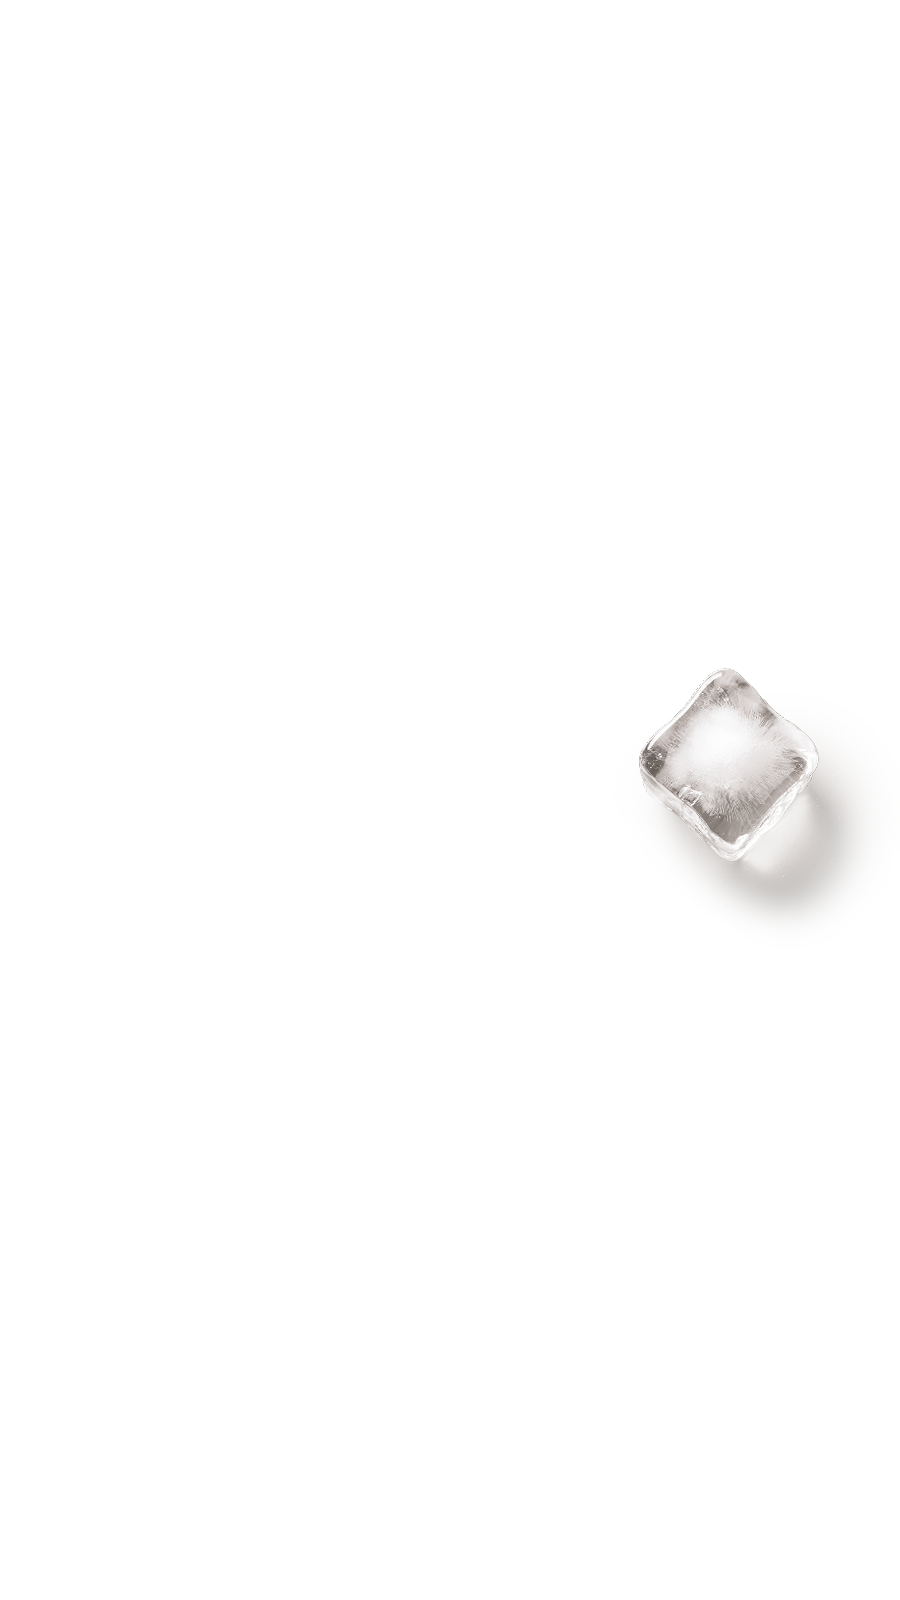
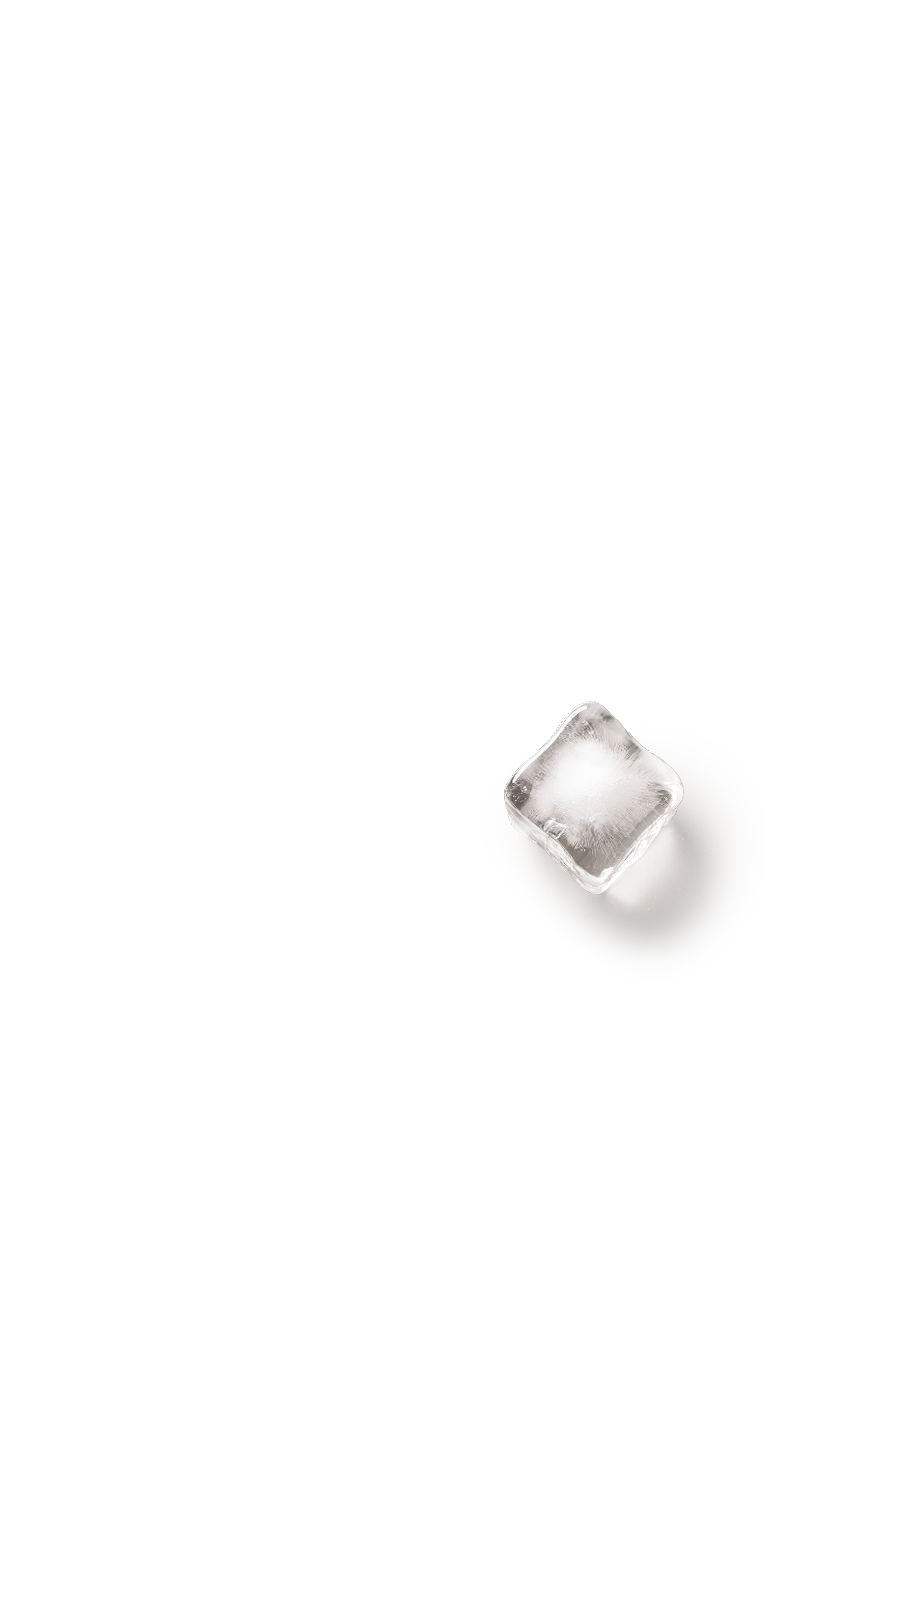
fixes on mobile

Changed region(s): [[0.56, 0.4062, 0.9644, 0.5938]]

diff --git a/src/pages/HomePage/HomePage.css b/src/pages/HomePage/HomePage.css
@@ -137,8 +137,8 @@ html {
 
   /* Landing Section */
   .landing-section {
-    background-image: url("/src/assets/images/backgrounds/ice-isolated-1.png");
-    background-size: 180%;
+    background-image: url("/src/assets/images/backgrounds/ice-white-2-vertical.png");
+    background-size: 100%;
     justify-content: center;
   }
   .landing-section-content img {
@@ -153,16 +153,17 @@ html {
     width: 100%;
     padding: 0;
     background-image: url("/src/assets/images/backgrounds/ice-isolated-2.2-vertical.png");
-    background-size: 110%;
+    background-size: 90%;
   }
   #motto h2 {
-    font-size: 2rem;
-    line-height: 3rem;
-    padding: 1rem 3rem;
+    font-size: 1.5rem;
+    line-height: 2.5rem;
+    padding: 1rem 8rem;
   }
 
   .no-booking-section h5 {
     padding-top: 0;
+    width: 70%;
     font-size: 2rem;
   }
 
@@ -177,11 +178,17 @@ html {
   }
   #ig-section > h4{
     padding: 2rem 2rem 0 2rem;
+    width: 50%;
+    font-size: 1.5rem;
   }
 
   .maps-section {
     width: 100%;
-    padding: 2rem 0;
+    padding: 0;
+  }
+  .maps-section h4 {
+    padding: 2rem 6rem;
+    font-size: 1.3rem;
   }
 }
 

diff --git a/src/pages/IcebathPage/IcebathPage.css b/src/pages/IcebathPage/IcebathPage.css
@@ -274,11 +274,11 @@
     order: 2;
   }
   .benefit-content h3 {
-    padding: 0 8rem;
+    padding: 0 10rem;
   }
   .benefit-content p {
-    font-size: 16px;
-    padding: 0 8rem;
+    font-size: 14px;
+    padding: 0 10rem;
   }
 
   .text-left {

diff --git a/src/pages/RedlightPage/RedlightPage.css b/src/pages/RedlightPage/RedlightPage.css
@@ -70,7 +70,7 @@
 }
 .custom-icon-list {
   list-style: none; /* Removes default bullets */
-  padding: 0;
+  padding: 0 2rem;
   margin: 0;
 }
 
